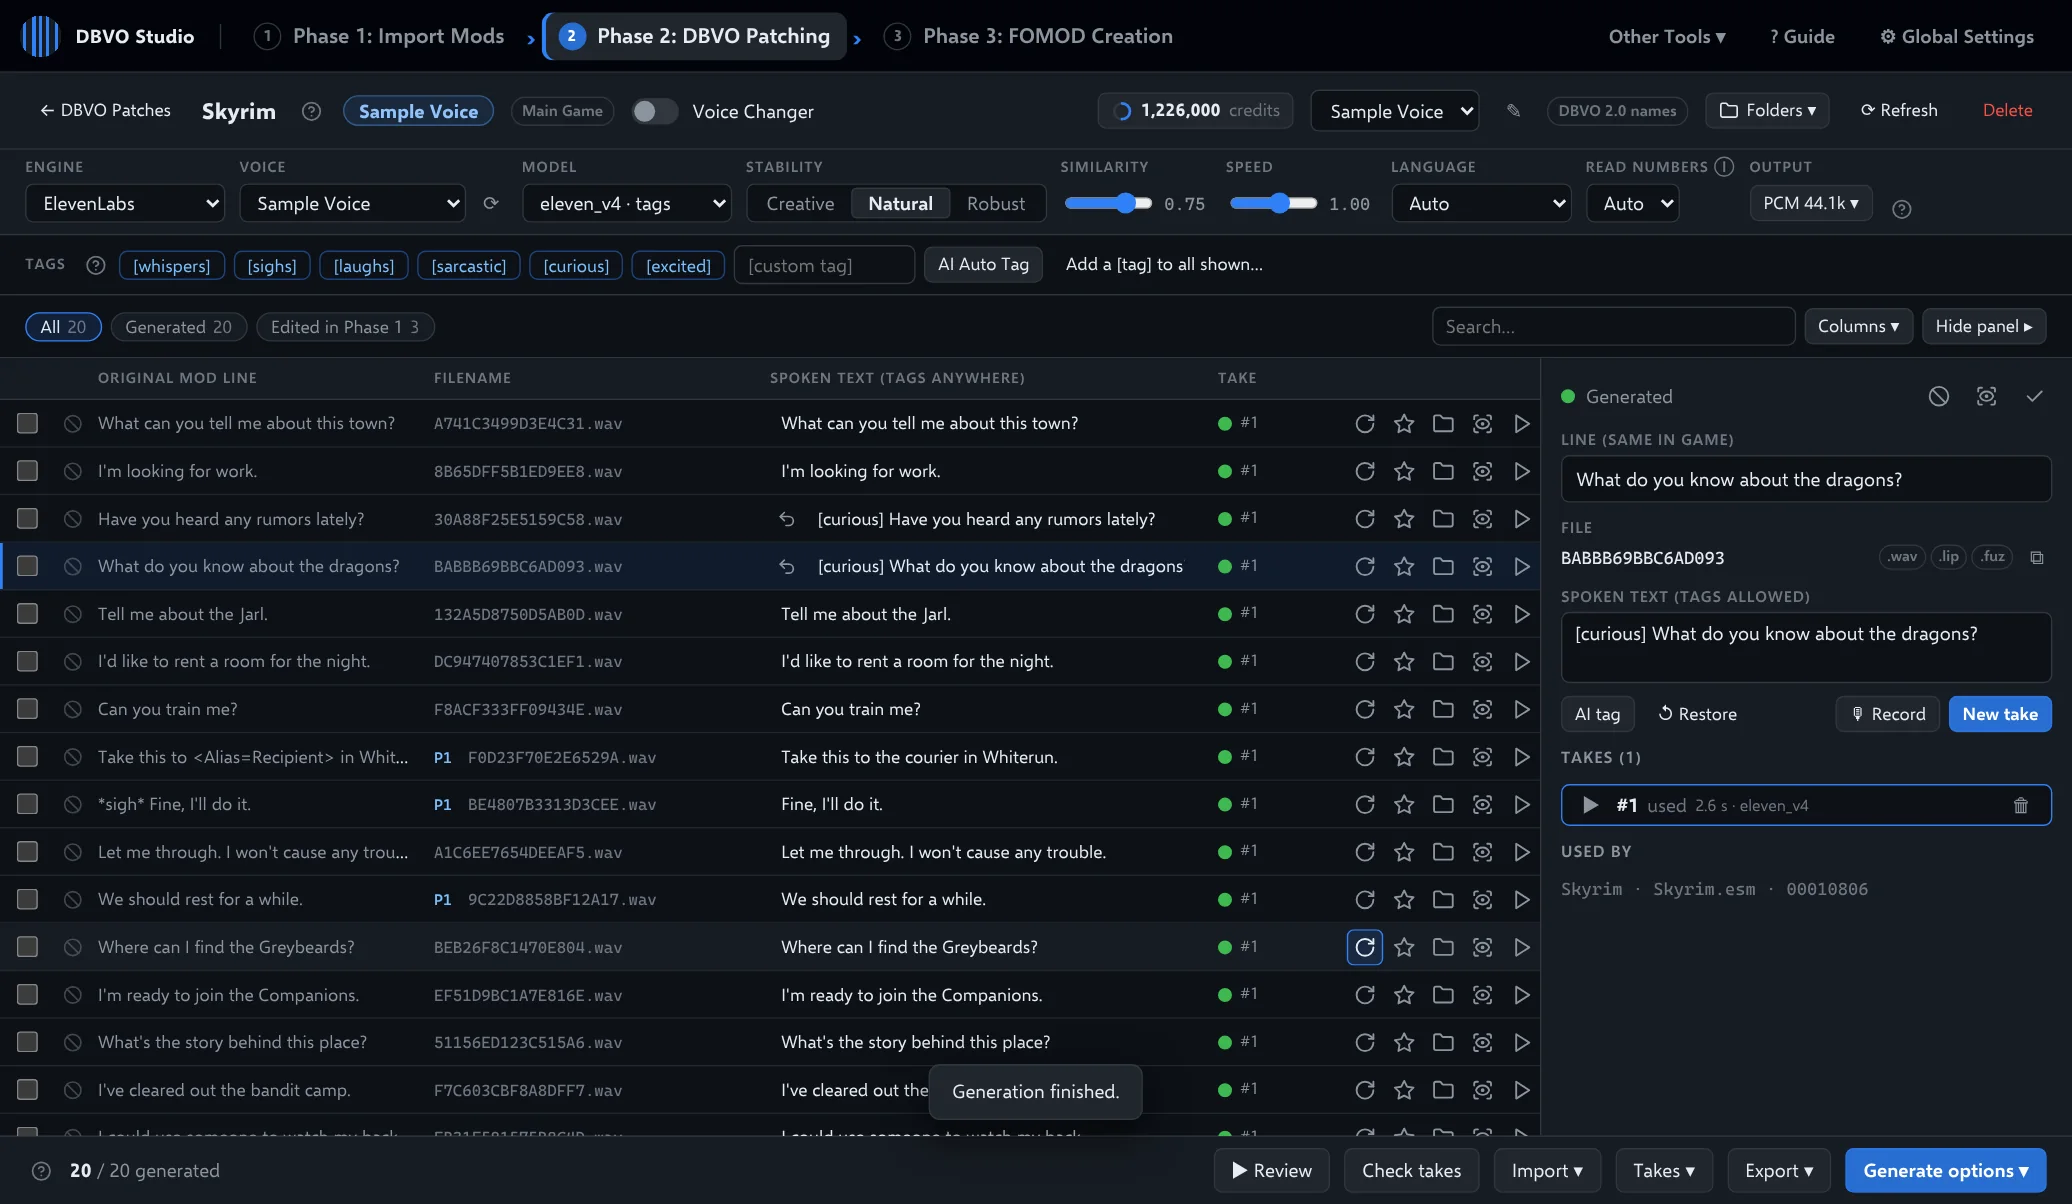
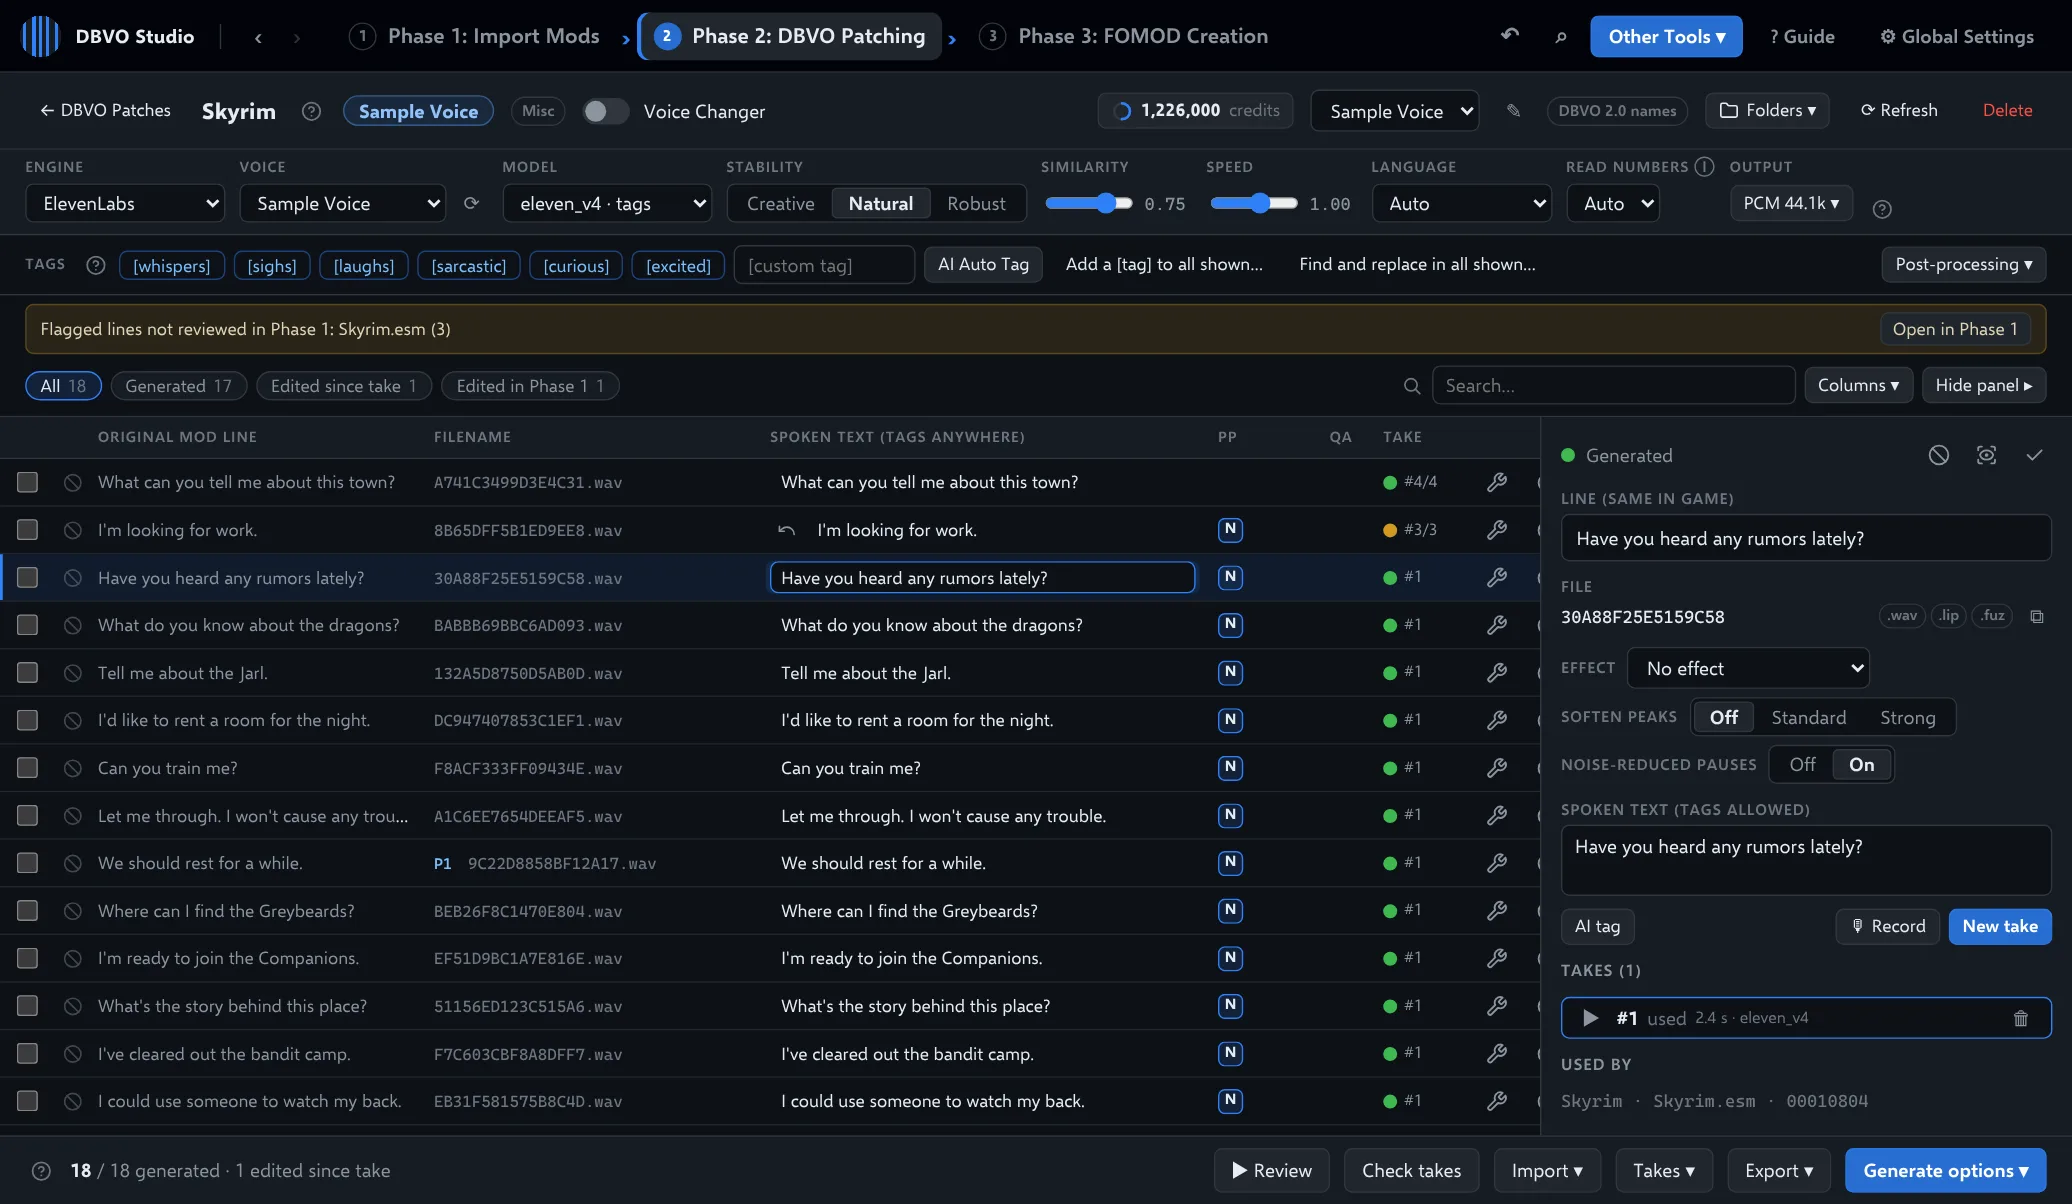
Guide: new screenshots (grid with PP and Edit take columns, takes window, Edit take, leading-tags note), Global Settings default for leading tags as context
Claude-Session: https://claude.ai/code/session_01U6TEYM8mjbw7eJaLX2KYzY

diff --git a/src/DbvoStudio.App/wwwroot/help/guide.html b/src/DbvoStudio.App/wwwroot/help/guide.html
@@ -32,6 +32,8 @@
 <figure><img src="help/img/settings-voicepack-defaults.webp" alt="Defaults for new DBVO Patches, with the preview for a mod called Example Mod" loading="lazy"><figcaption>Defaults for new DBVO Patches, with the preview for a mod called Example Mod</figcaption></figure>
 <h3 id="optional-settings">Optional settings</h3>
 <p>None of these are needed to start; come back to them when you want them.</p>
+<h4 id="leading-tags-default">Leading tags as context</h4>
+<p><strong>Global Settings → General &amp; tools → Leading tags as context</strong> sets whether new ElevenLabs patches send the [tags] at the start of each line as context, which isn't counted against your credits. It is on unless you turn it off; each patch can change it for itself in Output ▾. See <a href="#leading-tags-as-context">Leading tags as context</a> for what it changes.</p>
 <h4 id="ai-auto-tagging">AI auto-tagging</h4>
 <p>ElevenLabs has no API for its Enhance button, so <strong>AI Auto Tag</strong> (Phase 2 and NPC Revoice) asks an AI model to add [tags] without changing any words; suggestions that change words are thrown away. Pick a preset (Ollama or LM Studio, free on your PC; OpenAI or Anthropic, paid), follow its numbered steps, add a key for online providers, then <strong>Test connection</strong>.</p>
 <figure><img src="help/img/settings-ai.webp" alt="AI auto-tagging with the Ollama preset and its setup steps" loading="lazy"><figcaption>AI auto-tagging with the Ollama preset and its setup steps</figcaption></figure>
@@ -120,14 +122,16 @@
 <p>When the voice pack has a <strong>Standard voice</strong> for its engine (Global Settings → Voice packs) and the voice picked now is another one, <em>Check before spending credits</em> says so above Generate: <em>The standard voice for X is Y, but the current setting is Z.</em> NPC Revoice shows the same warning for each voice pack group.</p>
 <h3 id="takes">Takes</h3>
 <p>The <strong>Take</strong> column shows the take in use and the total, such as <code>#2/2</code>; click it to open the line&#39;s takes.</p>
-<figure><img src="help/img/phase2-takes.webp" alt="Two takes of one line; #2 is used for export and .fuz" loading="lazy"><figcaption>Two takes of one line; #2 is used for export and .fuz</figcaption></figure>
+<figure><img src="help/img/phase2-takes.webp" alt="The takes of one line, the one in use at the top, with Edit take under them" loading="lazy"><figcaption>The takes of one line: the one in use is at the top; the wrench and Edit take open the editor</figcaption></figure>
 <ul><li><p><strong>▶</strong> plays a take; double-clicking a row plays the take in use.</p></li><li><p><strong>Use</strong> makes a take the one exported and fuzzed.</p></li><li><p><strong>★</strong> keeps a take as a variant. With DBVO 2.0 naming every kept take is exported as a variant; with none kept, the take in use is. Legacy naming exports one take per line.</p></li><li><p><strong>🗑</strong> deletes a take and its files. <strong>Keep only the used take</strong> deletes the rest except kept ★ takes; <strong>Takes ▾</strong> does the same for ticked lines or the whole patch. <strong>Takes ▾ → Delete all takes · omitted lines</strong> deletes every take of the omitted lines (kept ★ takes stay); those lines are never exported, and files exported for them earlier are offered for removal at the next export.</p></li><li><p>A small <strong>fuz</strong> mark next to the take number means the take in use is an imported .fuz, kept as it is.</p></li><li><p>The folder icon opens the line&#39;s takes folder.</p></li></ul>
 <h3 id="leading-tags-as-context">Leading tags as context</h3>
 <p>Toolbar → <strong>Output ▾</strong> → <strong>Leading tags as context</strong> (ElevenLabs, per patch). New patches take the default from <strong>Global Settings → General &amp; tools → Leading tags as context</strong> (on unless you change it); patches made before 9.0.0 keep it off. With it on, the [tags] at the start of a line are sent as context, the text before the line, instead of as part of the line. ElevenLabs doesn't count context against your credits, so a line costs only its words: <code>[British Baleful] No, sorry.</code> is billed as <code>No, sorry.</code>. Tags later in the line, such as <code>[laughs]</code>, stay in the text and are billed as before.</p>
 <ul><li><p><strong>The tags come through weaker.</strong> As context, a tag has roughly 60–90% of its usual effect, and two leading tags weaken each other a little more. Three or more are sent the same way but haven't been tested; expect them to weaken further. Phrase them stronger to make up for it: <code>[British Extremely Baleful]</code> as context sounds close to <code>[British Baleful]</code> in the text. In our tests "Extremely" worked best: it only makes the next word stronger. "Very" made little difference, and words like "Deeply" or "Intensely" add a meaning of their own (a deeper voice, a louder and more forceful delivery). Try a few lines first, with a fixed seed (Output ▾) so only the tag changes.</p></li><li><p><strong>Short lines no longer double their words.</strong> Tags in the text of a very short line can make ElevenLabs repeat words or ramble; as context they don't, so short lines can have the same tags as long ones.</p></li><li><p><strong>Keep a patch one way.</strong> Takes made with and without it can sound slightly different, so use it for a whole patch (or a whole new pass), not mixed.</p></li><li><p><strong>Billing.</strong> Each take shows the credits ElevenLabs billed for it in the takes window. If a take made this way is billed for more than its words, Studio warns you once: ElevenLabs may have started counting context, and the setting no longer saves credits (the sound stays the same). The "Check before spending credits" estimate still counts the tags.</p></li></ul>
+<figure><img src="help/img/tags-context-dialog.webp" alt="The note shown the first time a new patch has leading tags as context on" loading="lazy"><figcaption>Shown once, the first time you open a patch with the setting on</figcaption></figure>
 <h3 id="edit-take">Edit take</h3>
 <p>The wrench (🔧) next to the Take column, the wrench on each take in the takes window, and <strong>Edit take</strong> under the takes open a take in a small waveform editor. Use it when a short line came back with a doubled word or a repeated line, or to trim or fade a take, without paying for a new one.</p>
 <ul><li><p>Drag across the waveform to select; click to place the cursor; Shift+click extends the selection. <strong>Snap cuts to quiet points</strong> moves the edges to the quietest spot within 25 ms, so a cut lands between sounds. Every cut gets a 6 ms crossfade, so it doesn't click.</p></li><li><p>With Whisper set up (the same one Check takes uses), the words of the take are shown under the waveform with their timing. Click a word to select it, Shift+click another to select a run of words. A doubled word shows up as the same word twice.</p></li><li><p><strong>Delete selection</strong> (or the Delete key) cuts it out, <strong>Keep only selection</strong> cuts away the rest, <strong>Silence selection</strong> keeps the length, and <strong>Fade in</strong>, <strong>Fade out</strong> and <strong>Gain</strong> work on the selection. <strong>Undo</strong> and <strong>Redo</strong> (Ctrl+Z, Ctrl+Y) step through the edits. Space plays from the cursor; <strong>Play selection</strong> and <strong>Loop</strong> play the selected part.</p></li><li><p>You edit the take without its post-processing (Noise-reduced pauses, effect, Soften peaks), which is what you hear in the editor. When you save, that post-processing is put back on, so the grid shows the same PP icons as before and you can still change them there.</p></li><li><p><strong>Save as new take</strong> keeps the original and makes the edit a new take, now the one in use. <strong>Save over this take</strong> replaces the take's audio. Either way a new .lip is made from the take's text, so the lip movement follows the shorter audio. Voiced Books parts have no .lip; their parts have a wrench in the book editor.</p></li></ul>
+<figure><img src="help/img/edit-take.webp" alt="Edit take: the waveform with a selection, the edit buttons, snapping and post-processing" loading="lazy"><figcaption>Edit take with part of the take selected</figcaption></figure>
 <p>Edit take is in Phase 2, the Voice Changer, the NPC Revoice Tool and the Voiced Books Tool. Player Grunts has its own trim and fades on each file.</p>
 <h3 id="grid-columns">Grid columns</h3>
 <p>The grid's columns are, from the left: the tick box and Exclude, the line columns, <strong>PP</strong> (post-processing icons: an effect, <strong>S</strong> for Soften peaks, <strong>N</strong> for Noise-reduced pauses; click one to take it off), <strong>QA</strong>, <strong>Take</strong>, the Edit take wrench, and the line actions (regenerate, keep, takes folder, flag, play). Drag a column title sideways to move the column; drag its edge to resize it. <strong>Columns ▾</strong> hides columns, and <strong>Reset columns</strong> there brings back the standard order and widths. Each grid (Phase 1, Phase 2, the Voice Changer, NPC Revoice, Voiced Books) remembers its own order.</p>
